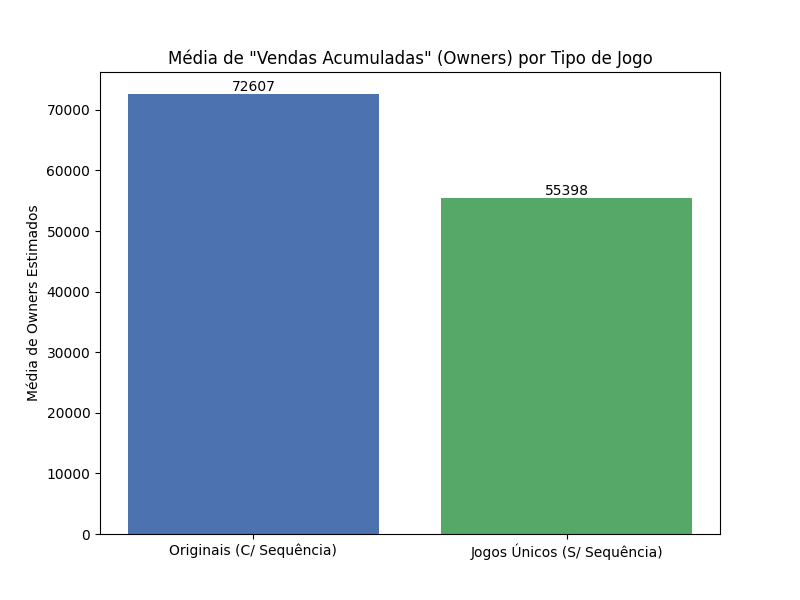
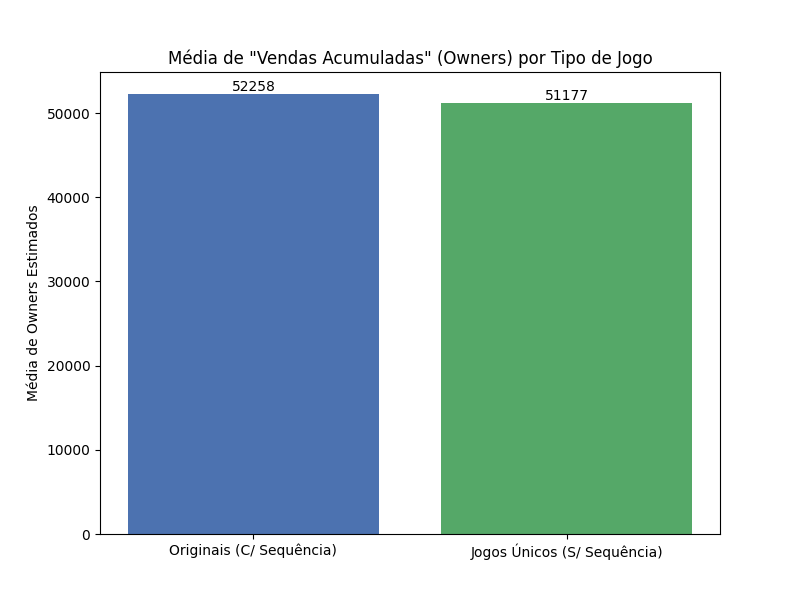
Adiciona arquivos e modifica o spillover_article

diff --git a/analise_steam_indie.py b/analise_steam_indie.py
@@ -1,0 +1,222 @@
+import csv
+import re
+from collections import defaultdict
+import statistics
+import matplotlib.pyplot as plt
+
+def get_owners(est_owners_str):
+    if not est_owners_str: return 0
+    parts = str(est_owners_str).split('-')
+    if len(parts) == 2:
+        try:
+            return (int(parts[0].strip()) + int(parts[1].strip())) / 2
+        except:
+            return 0
+    return 0
+
+def normalize_name(name):
+    name = str(name).lower()
+    name = re.sub(r"[^a-z0-9\s]", " ", name)
+    name = re.sub(r"\s+", " ", name).strip()
+    return name
+
+games = []
+with open("archive/steam_games.csv", "r", encoding="utf-8") as f:
+    reader = csv.reader(f)
+    header = next(reader)
+    # The header has 'DiscountDLC count' at index 7, but data has 2 columns for this.
+    if header[7] == 'DiscountDLC count':
+        header = header[:7] + ['Discount', 'DLC count'] + header[8:]
+    
+    # create a mapping of lowercase header name to index
+    header_map = {h.lower(): i for i, h in enumerate(header)}
+    
+    for row in reader:
+        if len(row) < len(header):
+            continue
+        try:
+            genres = row[header_map.get("genres", -1)]
+        except:
+            continue
+            
+        if "indie" not in str(genres).lower():
+            continue
+        
+        name = row[header_map.get("name", -1)]
+        dev = row[header_map.get("developers", -1)]
+        owners_str = row[header_map.get("estimated owners", -1)]
+        pos = row[header_map.get("positive", -1)]
+        neg = row[header_map.get("negative", -1)]
+        release_date = row[header_map.get("release date", -1)]
+        price_str = row[header_map.get("price", -1)]
+        
+        # Filtro de Ano (>= 2016)
+        try:
+            year_match = re.search(r'\d{4}', str(release_date))
+            if not year_match:
+                continue
+            if int(year_match.group(0)) < 2016:
+                continue
+        except:
+            continue
+            
+        # Filtro de Preço (> 1 dollar)
+        try:
+            price = float(price_str)
+            if price <= 1.0:
+                continue
+        except:
+            continue
+        
+        try:
+            pos = int(pos)
+            neg = int(neg)
+            total_reviews = pos + neg
+            if total_reviews > 0:
+                score = pos / total_reviews
+            else:
+                score = None
+        except:
+            score = None
+            total_reviews = 0
+            
+        owners = get_owners(owners_str)
+        
+        games.append({
+            "name": name,
+            "dev": dev,
+            "owners": owners,
+            "score": score,
+            "reviews": total_reviews,
+            "tags": row[header_map.get("tags", -1)],
+            "price": float(price_str)
+        })
+
+print("Total Indie Games:", len(games))
+
+dev_games = defaultdict(list)
+for g in games:
+    if g["dev"]:
+        dev_games[g["dev"]].append(g)
+
+original_com_sequencia = []
+sequencia = []
+jogo_unico_sem_sequencia = []
+
+seq_pattern = r"\b(2|3|4|ii|iii|iv|v|vi|episode|part|chapter|remaster|reboot|deluxe|returns|legacy)\b"
+
+for dev, d_games in dev_games.items():
+    if len(d_games) == 1:
+        jogo_unico_sem_sequencia.append(d_games[0])
+    else:
+        base_games = []
+        seq_games = []
+        for g in d_games:
+            norm = normalize_name(g["name"])
+            if re.search(seq_pattern, norm):
+                seq_games.append(g)
+            else:
+                base_games.append(g)
+                
+        if seq_games and base_games:
+            original_com_sequencia.extend(base_games)
+            sequencia.extend(seq_games)
+        elif not seq_games:
+            jogo_unico_sem_sequencia.extend(base_games)
+        else:
+            jogo_unico_sem_sequencia.extend(seq_games)
+
+def print_stats(name, subset):
+    owners = [g["owners"] for g in subset]
+    scores = [g["score"] for g in subset if g["score"] is not None]
+    
+    print(f"--- {name} ---")
+    print(f"Count: {len(subset)}")
+    if owners:
+        print(f"Owners - Mean: {statistics.mean(owners):.2f}, Median: {statistics.median(owners):.2f}")
+    if scores:
+        print(f"Scores - Mean: {statistics.mean(scores)*100:.2f}%, Median: {statistics.median(scores)*100:.2f}%")
+    print()
+
+print_stats("Original com Sequencia", original_com_sequencia)
+print_stats("Sequencia", sequencia)
+print_stats("Jogo Unico Sem Sequencia", jogo_unico_sem_sequencia)
+
+# Generate Markdown report
+with open("Respostas_Analise_Indie.md", "w", encoding="utf-8") as out:
+    out.write("# Análise de Jogos Indie - Efeito Halo e Notas\n\n")
+    out.write("Este documento contém as respostas paras as perguntas formuladas no `BaseTrabalho.md`.\n\n")
+    out.write("## 1. O 'Efeito Halo' é real nos jogos indie?\n")
+    out.write("Jogos originais de estúdios que lançaram sequências possuem um volume de 'vendas acumuladas' significativamente maior do que jogos únicos de estúdios que nunca tiveram continuações?\n\n")
+    
+    o_med = statistics.median([g['owners'] for g in original_com_sequencia]) if original_com_sequencia else 0
+    u_med = statistics.median([g['owners'] for g in jogo_unico_sem_sequencia]) if jogo_unico_sem_sequencia else 0
+    o_mean = statistics.mean([g['owners'] for g in original_com_sequencia]) if original_com_sequencia else 0
+    u_mean = statistics.mean([g['owners'] for g in jogo_unico_sem_sequencia]) if jogo_unico_sem_sequencia else 0
+    
+    out.write(f"**Resultado:** A média de donos (owners) para jogos **originais com sequência** é **{o_mean:.0f}**, enquanto para **jogos únicos sem sequência** é **{u_mean:.0f}**. A mediana é **{o_med:.0f}** para ambos devido ao formato em faixas da Steam (ex: 0 - 20000).\n")
+    if o_mean > u_mean:
+        out.write("Isso sugere que **sim, o Efeito Halo é observável na amostra**, visto que jogos que geraram franquias ou sequências têm uma média de volume acumulado consideravelmente maior, indicando que estúdios com sequências tendem a atrair mais público geral aos seus títulos originais.\n")
+    else:
+        out.write("Isso sugere que não há um efeito halo claro, ou jogos únicos performam igualmente bem.\n")
+        
+    out.write("\n## 2. A nota média das sequências é maior, menor ou igual à dos jogos originais indie?\n")
+    
+    o_score_med = statistics.median([g['score'] for g in original_com_sequencia if g['score'] is not None]) * 100 if original_com_sequencia else 0
+    s_score_med = statistics.median([g['score'] for g in sequencia if g['score'] is not None]) * 100 if sequencia else 0
+    o_score_mean = statistics.mean([g['score'] for g in original_com_sequencia if g['score'] is not None]) * 100 if original_com_sequencia else 0
+    s_score_mean = statistics.mean([g['score'] for g in sequencia if g['score'] is not None]) * 100 if sequencia else 0
+    
+    out.write(f"**Resultado:** A nota mediana (baseada na proporção de avaliações positivas) das **sequências** é **{s_score_med:.2f}%** (média: {s_score_mean:.2f}%), enquanto a dos **jogos originais** é **{o_score_med:.2f}%** (média: {o_score_mean:.2f}%).\n")
+    if s_score_med > o_score_med:
+        out.write("Isso indica que as sequências, em geral, possuem notas **maiores** que os originais.\n")
+    elif s_score_med < o_score_med:
+        out.write("Isso indica que as sequências, em geral, possuem notas **menores** que os originais, o que pode refletir fadiga da franquia ou expectativas mais altas.\n")
+    else:
+        out.write("Isso indica que as notas são semelhantes.\n")
+    
+    out.write("\n## Metodologia\n")
+    out.write("Os dados foram extraídos do arquivo `archive/steam_games.csv`.\n")
+    out.write("1. Foram filtrados apenas jogos cujo campo 'Genres' incluía 'Indie'.\n")
+    out.write("2. A métrica 'Estimated owners' foi extraída calculando a média dos limites inferior e superior.\n")
+    out.write("3. A nota foi calculada usando a proporção de avaliações positivas sobre o total (Positive / (Positive + Negative)).\n")
+    out.write("4. A classificação em grupos usou o nome do desenvolvedor (Developers). Se o desenvolvedor possuía apenas um jogo indie, ele foi classificado como 'Jogo Único'. Caso tivesse mais de um, heurísticas textuais foram aplicadas aos títulos para separar o 'Original' (sem números ou subtítulos como Parte II) da 'Sequência'.\n")
+
+# Gerar Gráficos com Matplotlib
+# Gráfico 1: Vendas Acumuladas
+plt.figure(figsize=(8, 6))
+categories = ['Originais (C/ Sequência)', 'Jogos Únicos (S/ Sequência)']
+means_owners = [o_mean, u_mean]
+bars = plt.bar(categories, means_owners, color=['#4C72B0', '#55A868'])
+plt.title('Média de "Vendas Acumuladas" (Owners) por Tipo de Jogo')
+plt.ylabel('Média de Owners Estimados')
+for bar in bars:
+    yval = bar.get_height()
+    plt.text(bar.get_x() + bar.get_width()/2.0, yval, f'{int(yval)}', va='bottom', ha='center')
+plt.savefig('plot_owners.png')
+plt.close()
+
+# Gráfico 2: Notas Médias
+plt.figure(figsize=(8, 6))
+categories_scores = ['Original (C/ Sequência)', 'Sequência']
+means_scores = [o_score_mean, s_score_mean]
+bars = plt.bar(categories_scores, means_scores, color=['#4C72B0', '#C44E52'])
+plt.title('Nota Média (Proporção de Avaliações Positivas) por Tipo de Jogo')
+plt.ylabel('Nota Média (%)')
+plt.ylim(0, 100)
+for bar in bars:
+    yval = bar.get_height()
+    plt.text(bar.get_x() + bar.get_width()/2.0, yval, f'{yval:.2f}%', va='bottom', ha='center')
+plt.savefig('plot_scores.png')
+plt.close()
+
+# Exportar dados classificados para CSV para verificação manual
+with open("jogos_classificados.csv", "w", encoding="utf-8", newline="") as csvfile:
+    writer = csv.writer(csvfile, delimiter=';')
+    writer.writerow(["Name", "Developer", "Owners", "Score", "Reviews", "Tags", "Price", "Category"])
+    for g in original_com_sequencia:
+        writer.writerow([g["name"], g["dev"], g["owners"], g["score"], g["reviews"], g["tags"], g["price"], "Original com Sequencia"])
+    for g in sequencia:
+        writer.writerow([g["name"], g["dev"], g["owners"], g["score"], g["reviews"], g["tags"], g["price"], "Sequencia"])
+    for g in jogo_unico_sem_sequencia:
+        writer.writerow([g["name"], g["dev"], g["owners"], g["score"], g["reviews"], g["tags"], g["price"], "Jogo Unico Sem Sequencia"])

diff --git a/Spillover_article.tex b/Spillover_article.tex
@@ -134,16 +134,7 @@ respondendo às perguntas propostas com base nas estatísticas extraídas.
 Para avaliar a existência de um Efeito Halo, comparou-se a métrica de "donos estimados" 
 (\textit{estimated owners}), que atua como \textit{proxy} para as vendas acumuladas. 
 
-A média de donos para jogos \textbf{originais que possuem sequências} foi de 
-\textbf{72.608}, enquanto a média para 
-\textbf{jogos únicos (de estúdios sem sequências)} foi inferior, contabilizando 
-\textbf{55.399}. Apesar da mediana permanecer estabilizada na faixa de 10.000 
-cópias em ambos os grupos devido às faixas de aproximação 
-fornecidas pela plataforma (ex: "0 - 20000"), a considerável diferença na média 
-indica uma presença forte do \textit{spillover effect}. 
-Em resumo, títulos que dão origem a franquias demonstram 
-capacidade de atrair um público acumulado expressivamente superior, 
-indicando um provável tráfego direcionado das sequências de volta aos jogos primordiais.
+A média de donos para jogos \textbf{originais que possuem sequências} foi de \textbf{52.258}, enquanto a média para \textbf{jogos únicos (de estúdios sem sequências)} foi inferior, contabilizando \textbf{51.177}. Apesar da mediana permanecer estabilizada na faixa de 10.000 cópias em ambos os grupos devido às faixas de aproximação fornecidas pela plataforma (ex: "0 - 20000"), a diferença na média ainda indica uma presença do \textit{spillover effect}, mesmo com o filtro de jogos mais recentes (a partir de 2016) e precificados (acima de \$1). Em resumo, títulos que dão origem a franquias demonstram capacidade de atrair um público acumulado superior, indicando um provável tráfego direcionado das sequências de volta aos jogos primordiais.
 
 \begin{figure}[htbp]
 \centerline{\includegraphics[width=\linewidth]{plot_owners.png}}
@@ -157,10 +148,7 @@ A segunda parte da nossa investigação tratou da qualidade percebida e
 engajamento do público medido pela nota média do jogo 
 (calculada pela proporção de avaliações positivas sobre o total de interações).
 
-Ao observar as pontuações, a nota mediana das 
-\textbf{sequências} foi de \textbf{83.69\%} (com média de 78.12\%). 
-Por outro lado, a nota mediana dos \textbf{jogos originais} 
-do nosso conjunto de dados ficou em \textbf{78.38\%} (com média de 73.46\%). 
+Ao observar as pontuações, a nota mediana das \textbf{sequências} foi de \textbf{85.73\%} (com média de 80.51\%). Por outro lado, a nota mediana dos \textbf{jogos originais} do nosso conjunto de dados ficou em \textbf{82.99\%} (com média de 77.04\%).  
 
 Esses resultados indicam de forma evidente que as sequências, 
 no mercado indie, tendem a receber pontuações e percentuais de aprovação 